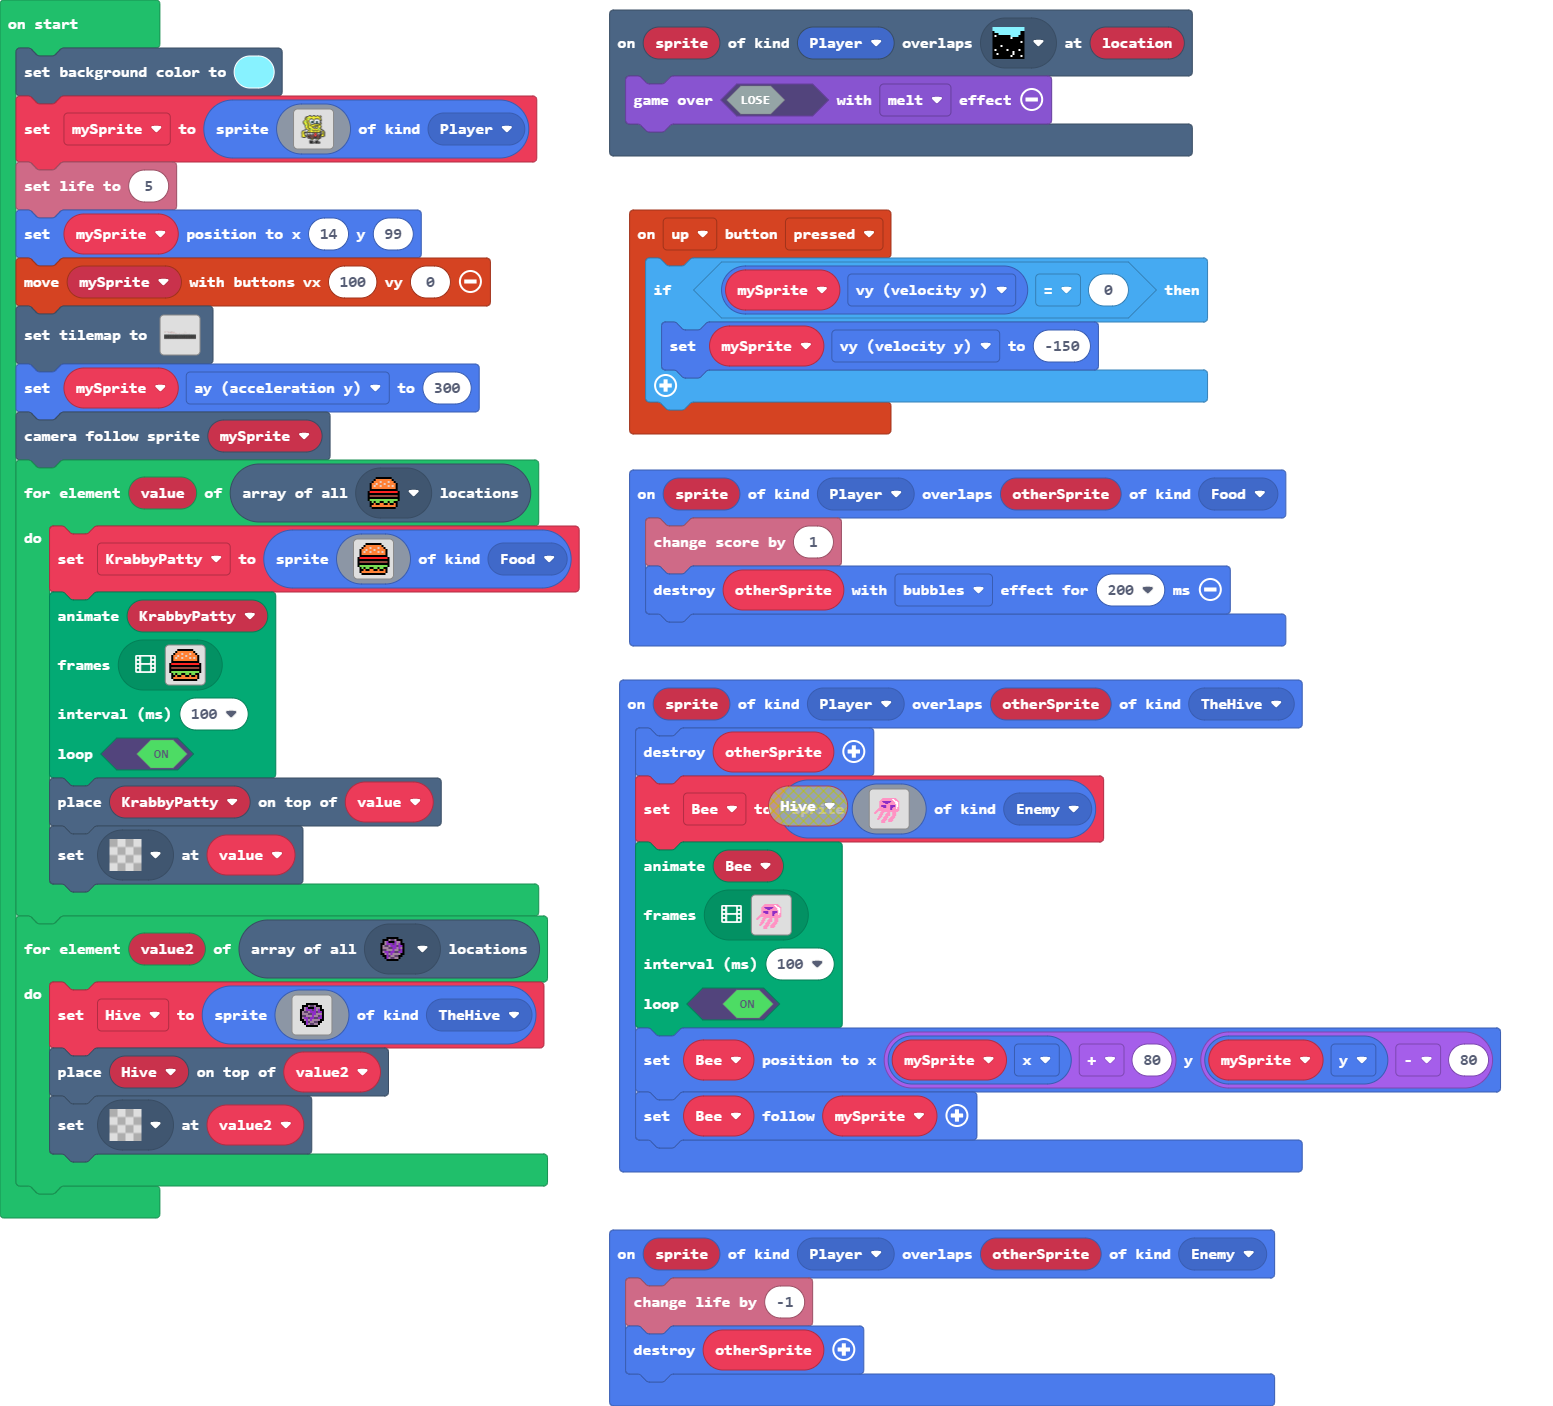
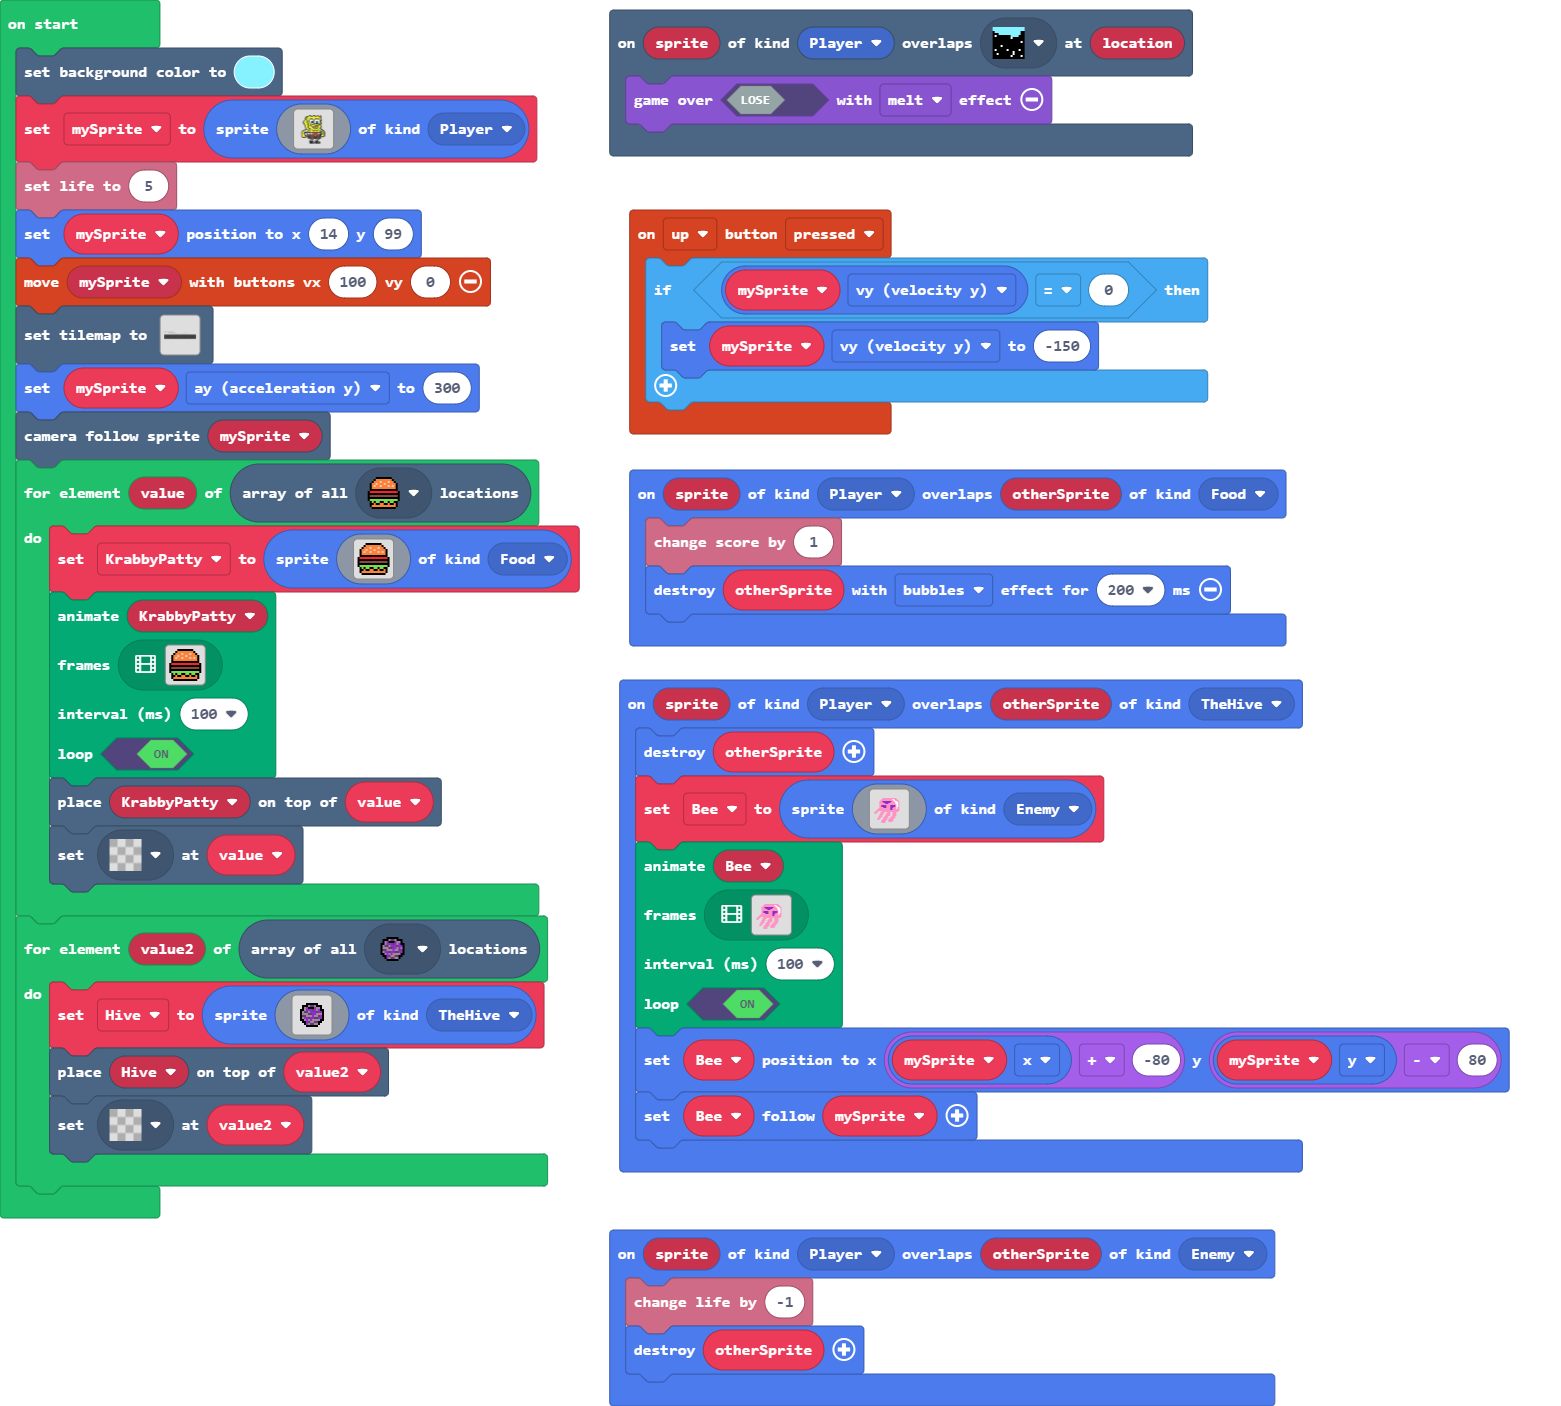
Update main.blocks, main.ts

diff --git a/main.ts b/main.ts
@@ -16,111 +16,129 @@ sprites.onOverlap(SpriteKind.Player, SpriteKind.Food, function (sprite, otherSpr
 sprites.onOverlap(SpriteKind.Player, SpriteKind.TheHive, function (sprite, otherSprite) {
     otherSprite.destroy()
     Bee = sprites.create(img`
-        .........................
-        .........................
-        ........33333333333333...
-        .......3333333333311333..
-        ......333333333333311333.
-        .....333aaaaaaaaa33311133
-        .....3333aaaaaaa333331113
-        .....333333aaa33333331113
-        .....33333333333333333113
-        .....33aaaaa3333aaaaa3113
-        .....33aaaaa3333aaaaa3113
-        .....3333aaa3333aaa333133
-        ....333333333333aa3333133
-        ...3333333333333aa3333333
-        ..33333333333333333333333
-        .333...33333333333333333.
-        333...3333...333..3333...
-        33....333...3333..3333...
-        .....3333..33333..3333...
-        .....333...33333..3333...
-        ....3333..3333...3333....
-        ....333..33333..33333....
-        ...333...3333..33333.....
-        ...33...33333.33333......
-        .......33333..333........
+        ................................
+        ................................
+        ................................
+        ................................
+        ................................
+        .........33333333333333.........
+        ........3333333333311333........
+        .......333333333333311333.......
+        ......333aaaaaaaaa33311133......
+        ......3333aaaaaaa333331113......
+        ......333333aaa33333331113......
+        ......33333333333333333113......
+        ......33aaaaa3333aaaaa3113......
+        ......33aaaaa3333aaaaa3113......
+        ......3333aaa3333aaa333133......
+        .....333333333333aa3333133......
+        ....3333333333333aa3333333......
+        ...33333333333333333333333......
+        ..333...33333333333333333.......
+        .333...3333...333..3333.........
+        .33....333...3333..3333.........
+        ......3333..33333..3333.........
+        ......333...33333..3333.........
+        .....3333..3333...3333..........
+        .....333..33333..33333..........
+        ....333...3333..33333...........
+        ....33...33333.33333............
+        ........33333..33333............
+        ........3333...3333.............
+        ........3333....................
+        ................................
+        ................................
         `, SpriteKind.Enemy)
     animation.runImageAnimation(
     Bee,
     [img`
-        .........................
-        ........33333333333333...
-        .......3333333333311333..
-        ......333333333333311333.
-        .....333aaaaaaaaa33311133
-        .....3333aaaaaaa333331113
-        .....333333aaa33333331113
-        .....33333333333333333113
-        .....33aaaaa3333aaaaa3113
-        .....33aaaaa3333aaaaa3113
-        .....3333aaa3333aaa333133
-        ....333333333333aa3333133
-        ...3333333333333aa3333333
-        ..33333333333333333333333
-        .333...33333333333333333.
-        333...3333...333..3333...
-        33....333...3333..3333...
-        .....3333..33333..3333...
-        .....333...33333..3333...
-        ....3333..3333...3333....
-        ....333..33333..33333....
-        ...333...3333..33333.....
-        ...33...33333.33333......
-        .......33333..33333......
-        .......3333...3333.......
+        ................................
+        ................................
+        ................................
+        ................................
+        ................................
+        .........33333333333333.........
+        ........3333333333311333........
+        .......333333333333311333.......
+        ......333aaaaaaaaa33311133......
+        ......3333aaaaaaa333331113......
+        ......333333aaa33333331113......
+        ......33333333333333333113......
+        ......33aaaaa3333aaaaa3113......
+        ......33aaaaa3333aaaaa3113......
+        ......3333aaa3333aaa333133......
+        .....333333333333aa3333133......
+        ....3333333333333aa3333333......
+        ...33333333333333333333333......
+        ..333...33333333333333333.......
+        .333...3333...333..3333.........
+        .33....333...3333..3333.........
+        ......3333..33333..3333.........
+        ......333...33333..3333.........
+        .....3333..3333...3333..........
+        .....333..33333..33333..........
+        ....333...3333..33333...........
+        ....33...33333.33333............
+        ........33333..33333............
+        ........3333...3333.............
+        ........3333....................
+        ................................
+        ................................
         `,img`
-        .........................
-        .........................
-        .........33333333333333..
-        ........3333333333311333.
-        .......333333333333311333
-        ......333aaaaaaaaa3331113
-        ......3333aaaaaaa33333111
-        ......3333333333333333311
-        ......33aaaaa3333aaaaa311
-        .....33333aaa3333aaa33313
-        ....3333333333333aa333313
-        ..333333333333333aa333333
-        ..33333333333333333333333
-        .......333333333333333333
-        ......3333..33333..3333..
-        ......333...33333..3333..
-        .....3333..3333...3333...
-        .....333..33333..33333...
-        ....333...3333..33333....
-        ....33...33333.33333.....
-        ........33333..33333.....
-        ........3333...3333......
-        ........3333.............
-        .........................
-        .........................
+        ................................
+        ................................
+        ................................
+        ................................
+        ................................
+        ................................
+        ................................
+        .........33333333333333.........
+        ........3333333333311333........
+        .......333333333333311333.......
+        ......333aaaaaaaaa33311133......
+        ......3333aaaaaaa333331113......
+        ......33333333333333333113......
+        ......33aaaaa3333aaaaa3113......
+        .....33333aaa3333aaa333133......
+        ....3333333333333aa3333133......
+        ..333333333333333aa3333333......
+        ..333333333333333333333333......
+        .......333333333333333333.......
+        ......3333..33333..3333.........
+        ......333...33333..3333.........
+        .....3333..3333...3333..........
+        .....333..33333..33333..........
+        ....333...3333..33333...........
+        ....33...33333.33333............
+        ........33333..33333............
+        ........3333...3333.............
+        ........3333....................
+        ................................
+        ................................
+        ................................
+        ................................
         `],
     100,
     true
     )
-    Bee.setPosition(mySprite.x + -90, mySprite.y - 90)
+    Bee.setPosition(mySprite.x + -80, mySprite.y - 80)
     Bee.follow(mySprite)
 })
 sprites.onOverlap(SpriteKind.Player, SpriteKind.Enemy, function (sprite, otherSprite) {
-    otherSprite.destroy()
     info.changeLifeBy(-1)
+    otherSprite.destroy()
 })
 let Bee: Sprite = null
 let Hive: Sprite = null
 let KrabbyPatty: Sprite = null
 let mySprite: Sprite = null
-game.splash("Grab All Krabby Patties and Avoid ALL Jellyfish Hives")
-game.splash("If You Do NOT Grab ALL Krabby Patties, You Lose")
 scene.setBackgroundColor(9)
 mySprite = sprites.create(assets.image`Spongebob`, SpriteKind.Player)
-mySprite.say("I'm Ready!", 2000)
 info.setLife(5)
 mySprite.setPosition(14, 99)
 controller.moveSprite(mySprite, 100, 0)
 tiles.setTilemap(tilemap`level1`)
-mySprite.ay = 250
+mySprite.ay = 300
 scene.cameraFollowSprite(mySprite)
 for (let value of tiles.getTilesByType(assets.tile`myTile3`)) {
     KrabbyPatty = sprites.create(img`
